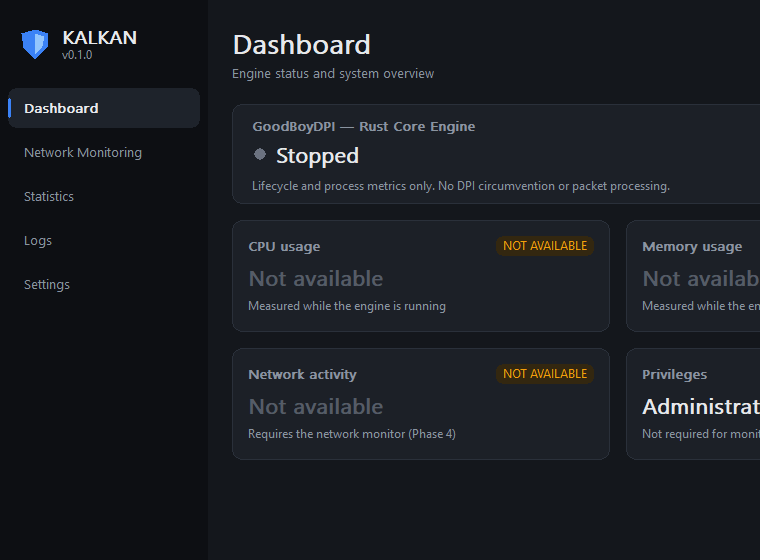
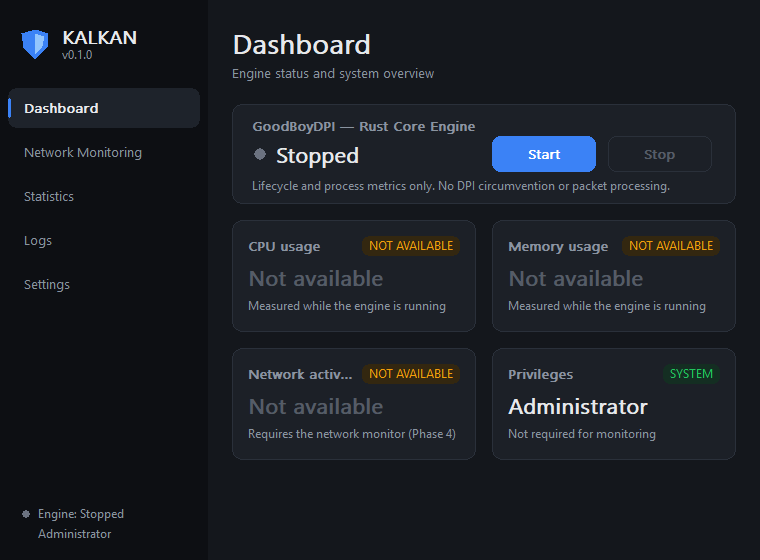
README: minimum-size screenshot from CI run 11 (after capture fix)
Claude-Session: https://claude.ai/code/session_013rArqHUrzSJp7RaL7xFFoP

diff --git a/README.md b/README.md
@@ -50,6 +50,10 @@ Captured automatically by `kalkan --self-test` on the Windows CI runner at 96 DP
 |---|---|---|
 | <img src="docs/screenshots/dashboard-duplicate-start.png" width="300" alt="Warning: Start ignored, the engine is already running" /> | <img src="docs/screenshots/logs.png" width="300" alt="Logs page" /> | <img src="docs/screenshots/settings.png" width="300" alt="Settings page" /> |
 
+At the minimum window size (760 × 560) the grid reflows and the engine's scope disclaimer stays fully readable:
+
+<p align="center"><img src="docs/screenshots/dashboard-minimum-size.png" width="380" alt="Dashboard at minimum size, engine stopped" /></p>
+
 **LIVE** values come from the running engine. **SYSTEM** and **CONFIG** values are read from Windows and from `kalkan.toml`. Values marked **NOT AVAILABLE** do not exist yet; KALKAN never shows invented numbers.
 
 ### The engine: GoodBoyDPI
